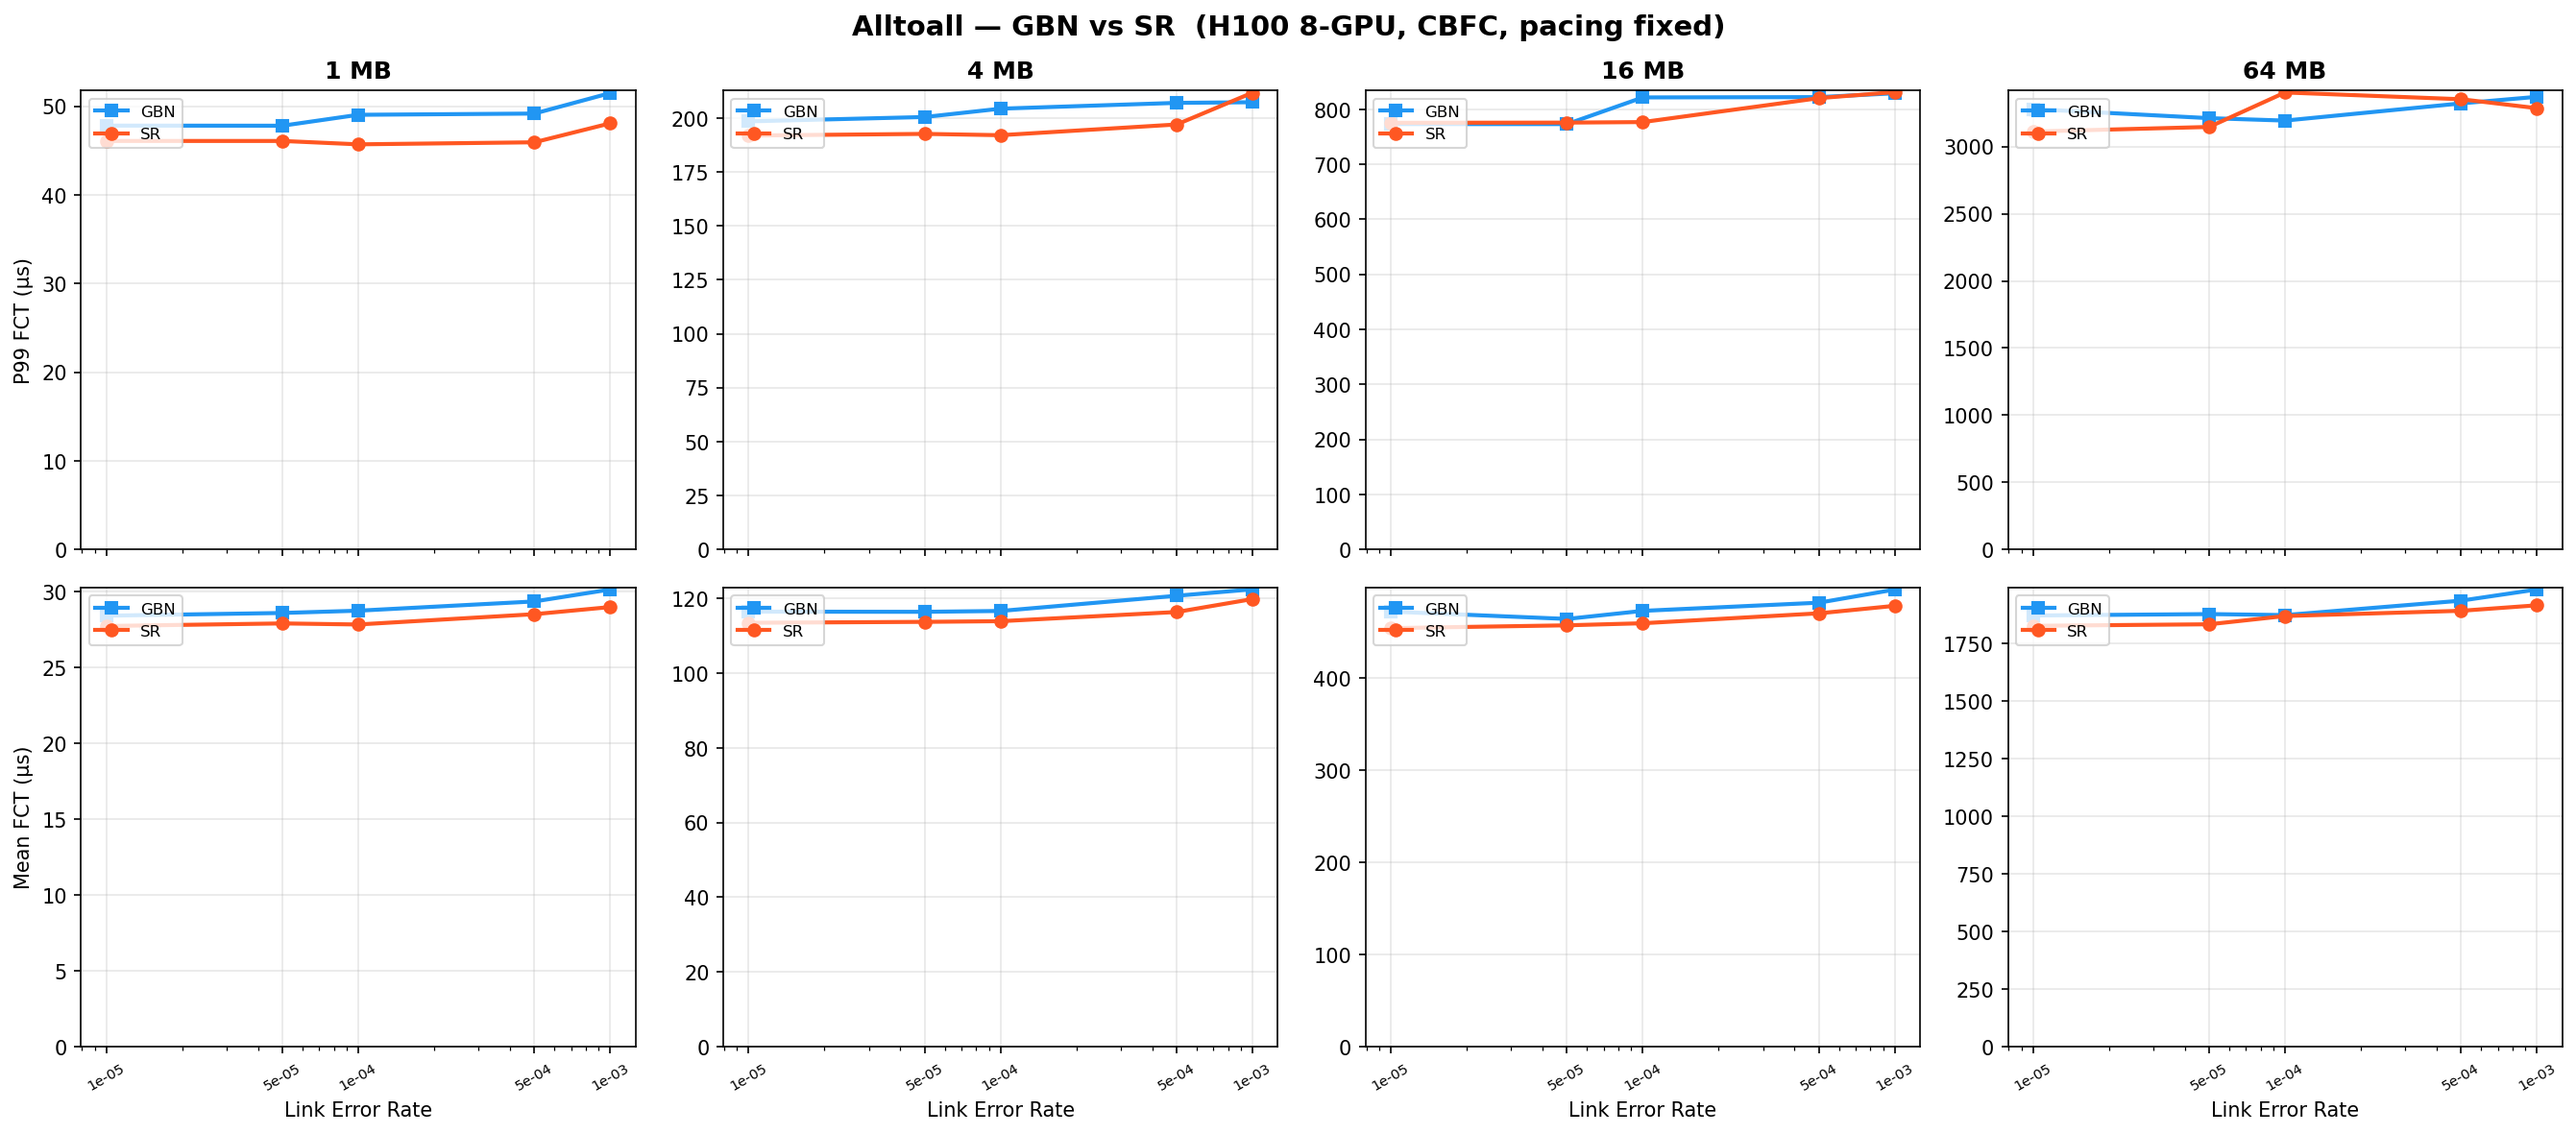
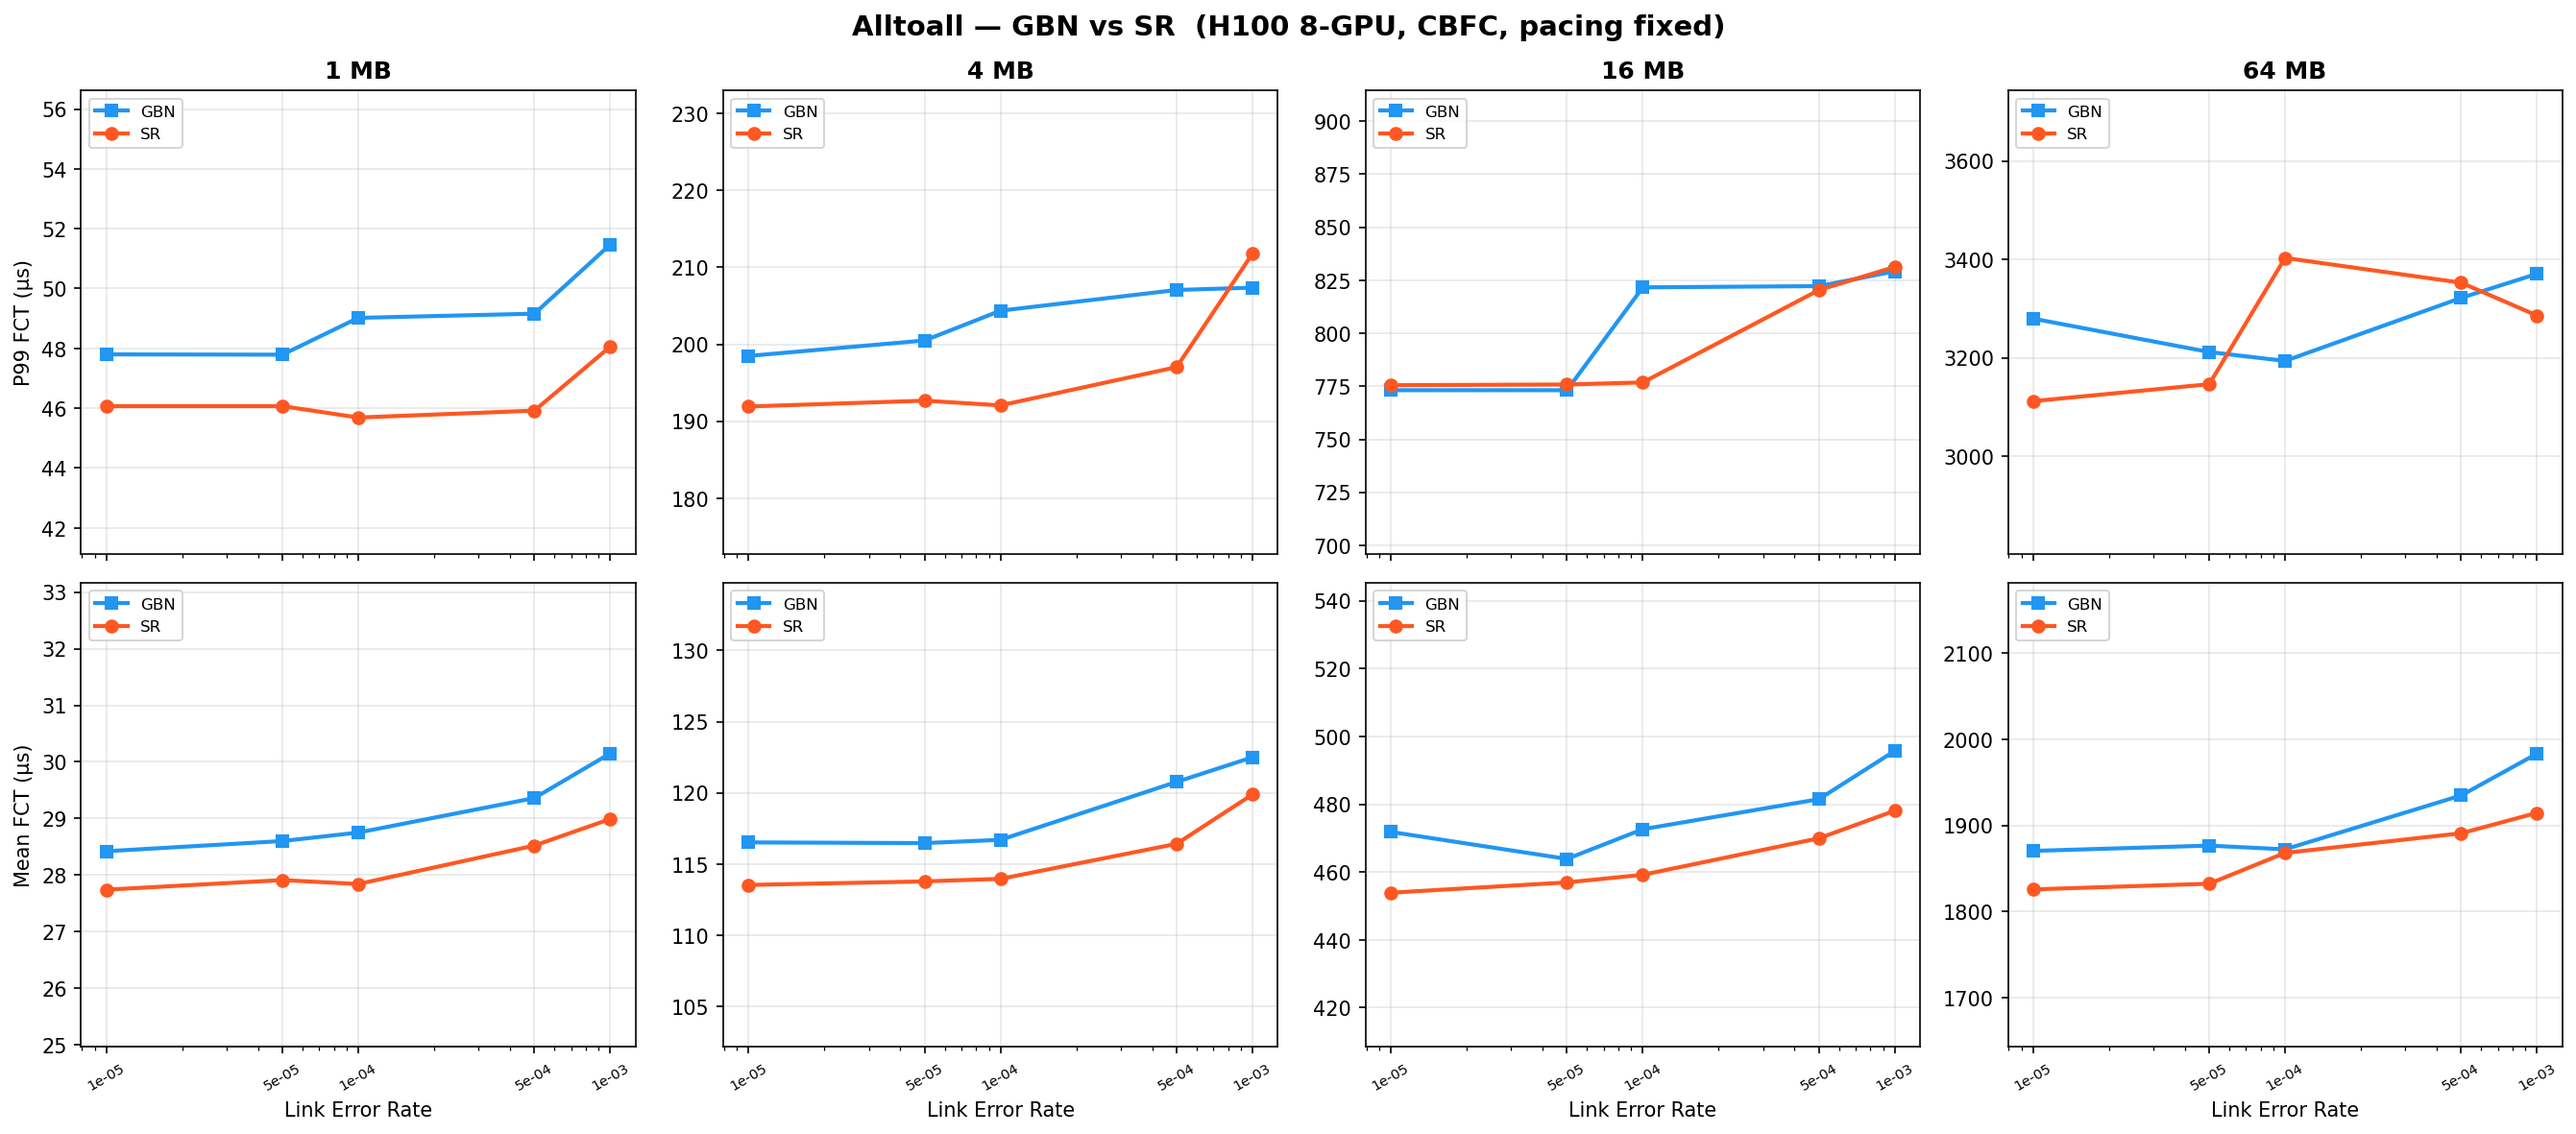
fix: 图表Y轴改为紧凑范围，GBN/SR差距更直观

diff --git a/experiments_v2/plot_results.py b/experiments_v2/plot_results.py
@@ -71,6 +71,13 @@ def plot_combined(traffic, sr, gbn):
             ax.plot(ERR_RATES, gbn_v, 's-', color='#2196F3', linewidth=2, markersize=6, label='GBN')
             ax.plot(ERR_RATES, sr_v,  'o-', color='#FF5722', linewidth=2, markersize=6, label='SR')
 
+            # Y轴紧凑范围：数据最小值下浮10%，最大值上浮10%
+            all_v = [v for v in gbn_v + sr_v if not np.isnan(v) and v > 0]
+            if all_v:
+                ymin = min(all_v) * 0.90
+                ymax = max(all_v) * 1.10
+                ax.set_ylim(ymin, ymax)
+
             ax.set_xscale('log')
             if row == 1:
                 ax.set_xlabel('Link Error Rate', fontsize=10)
@@ -84,7 +91,6 @@ def plot_combined(traffic, sr, gbn):
                 ax.set_ylabel(ylabel, fontsize=10)
             ax.legend(fontsize=8, loc='upper left')
             ax.grid(True, alpha=0.3)
-            ax.set_ylim(bottom=0)
 
     plt.tight_layout()
     path = os.path.join(OUT_DIR, f"compare_{traffic}.png")
